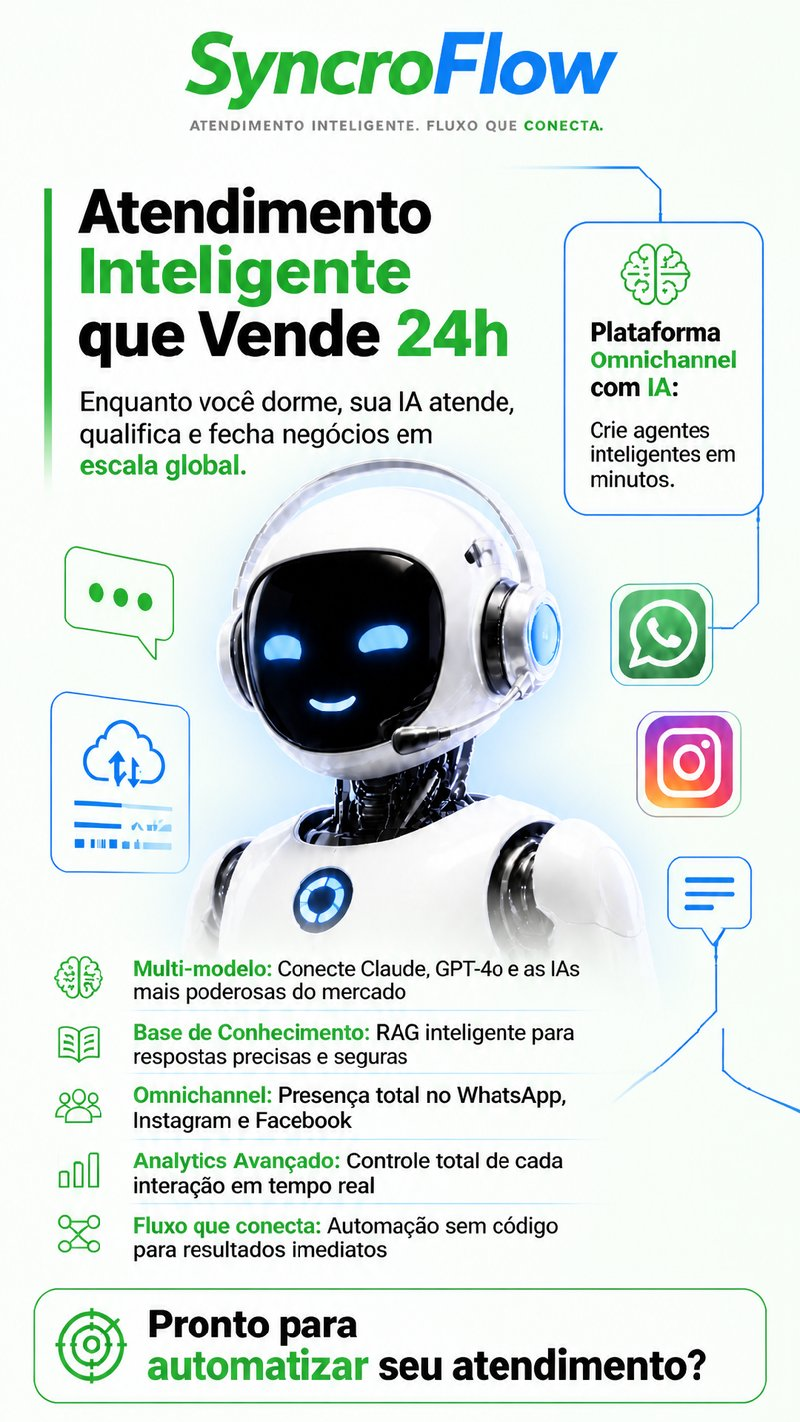
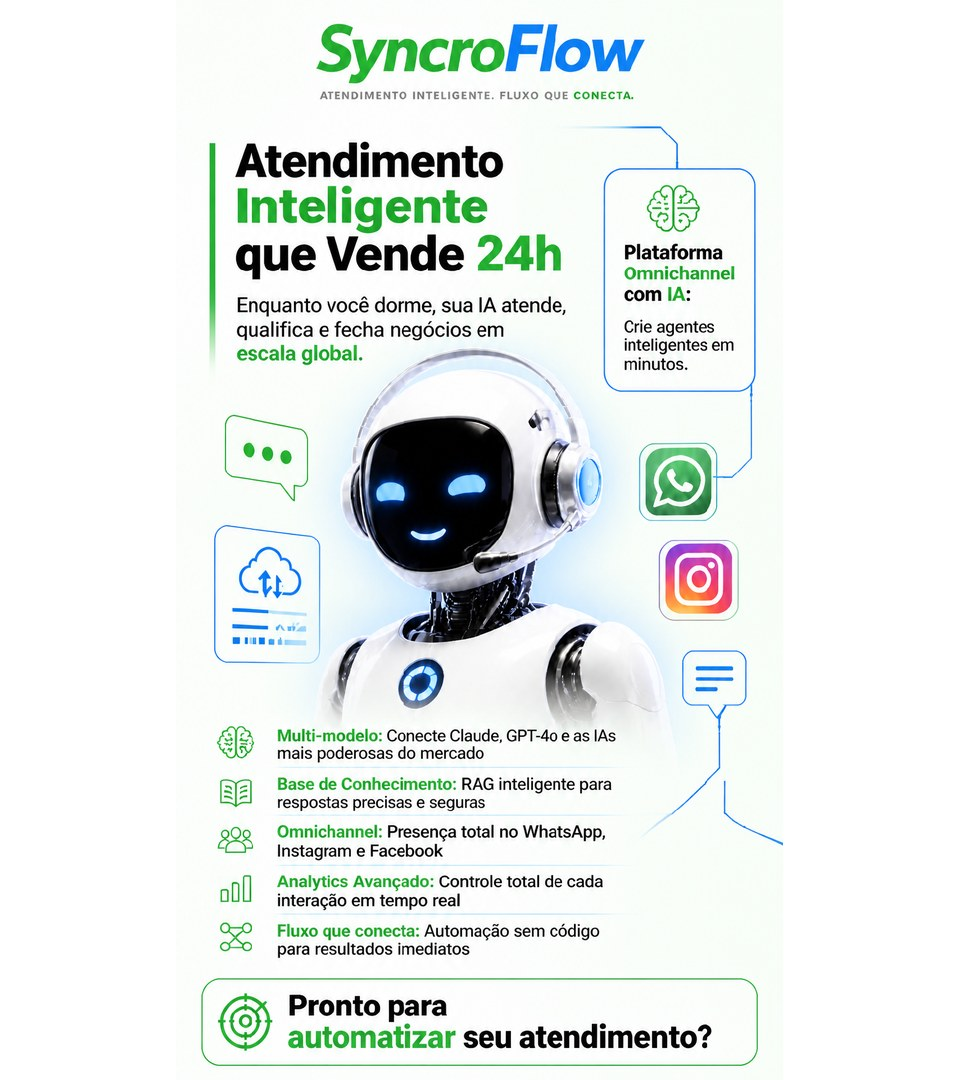
feat: criativo 960x1080 otimizado (152KB) — proporcao exata do painel esquerdo

diff --git a/apps/web/app/(auth)/layout.tsx b/apps/web/app/(auth)/layout.tsx
@@ -130,7 +130,7 @@ export default function AuthLayout({ children }: { children: React.ReactNode }) 
           alt="SyncroFlow"
           fill
           sizes="50vw"
-          style={{ objectFit: 'cover', objectPosition: 'center top' }}
+          style={{ objectFit: 'fill' }}
           priority
         />
       </div>